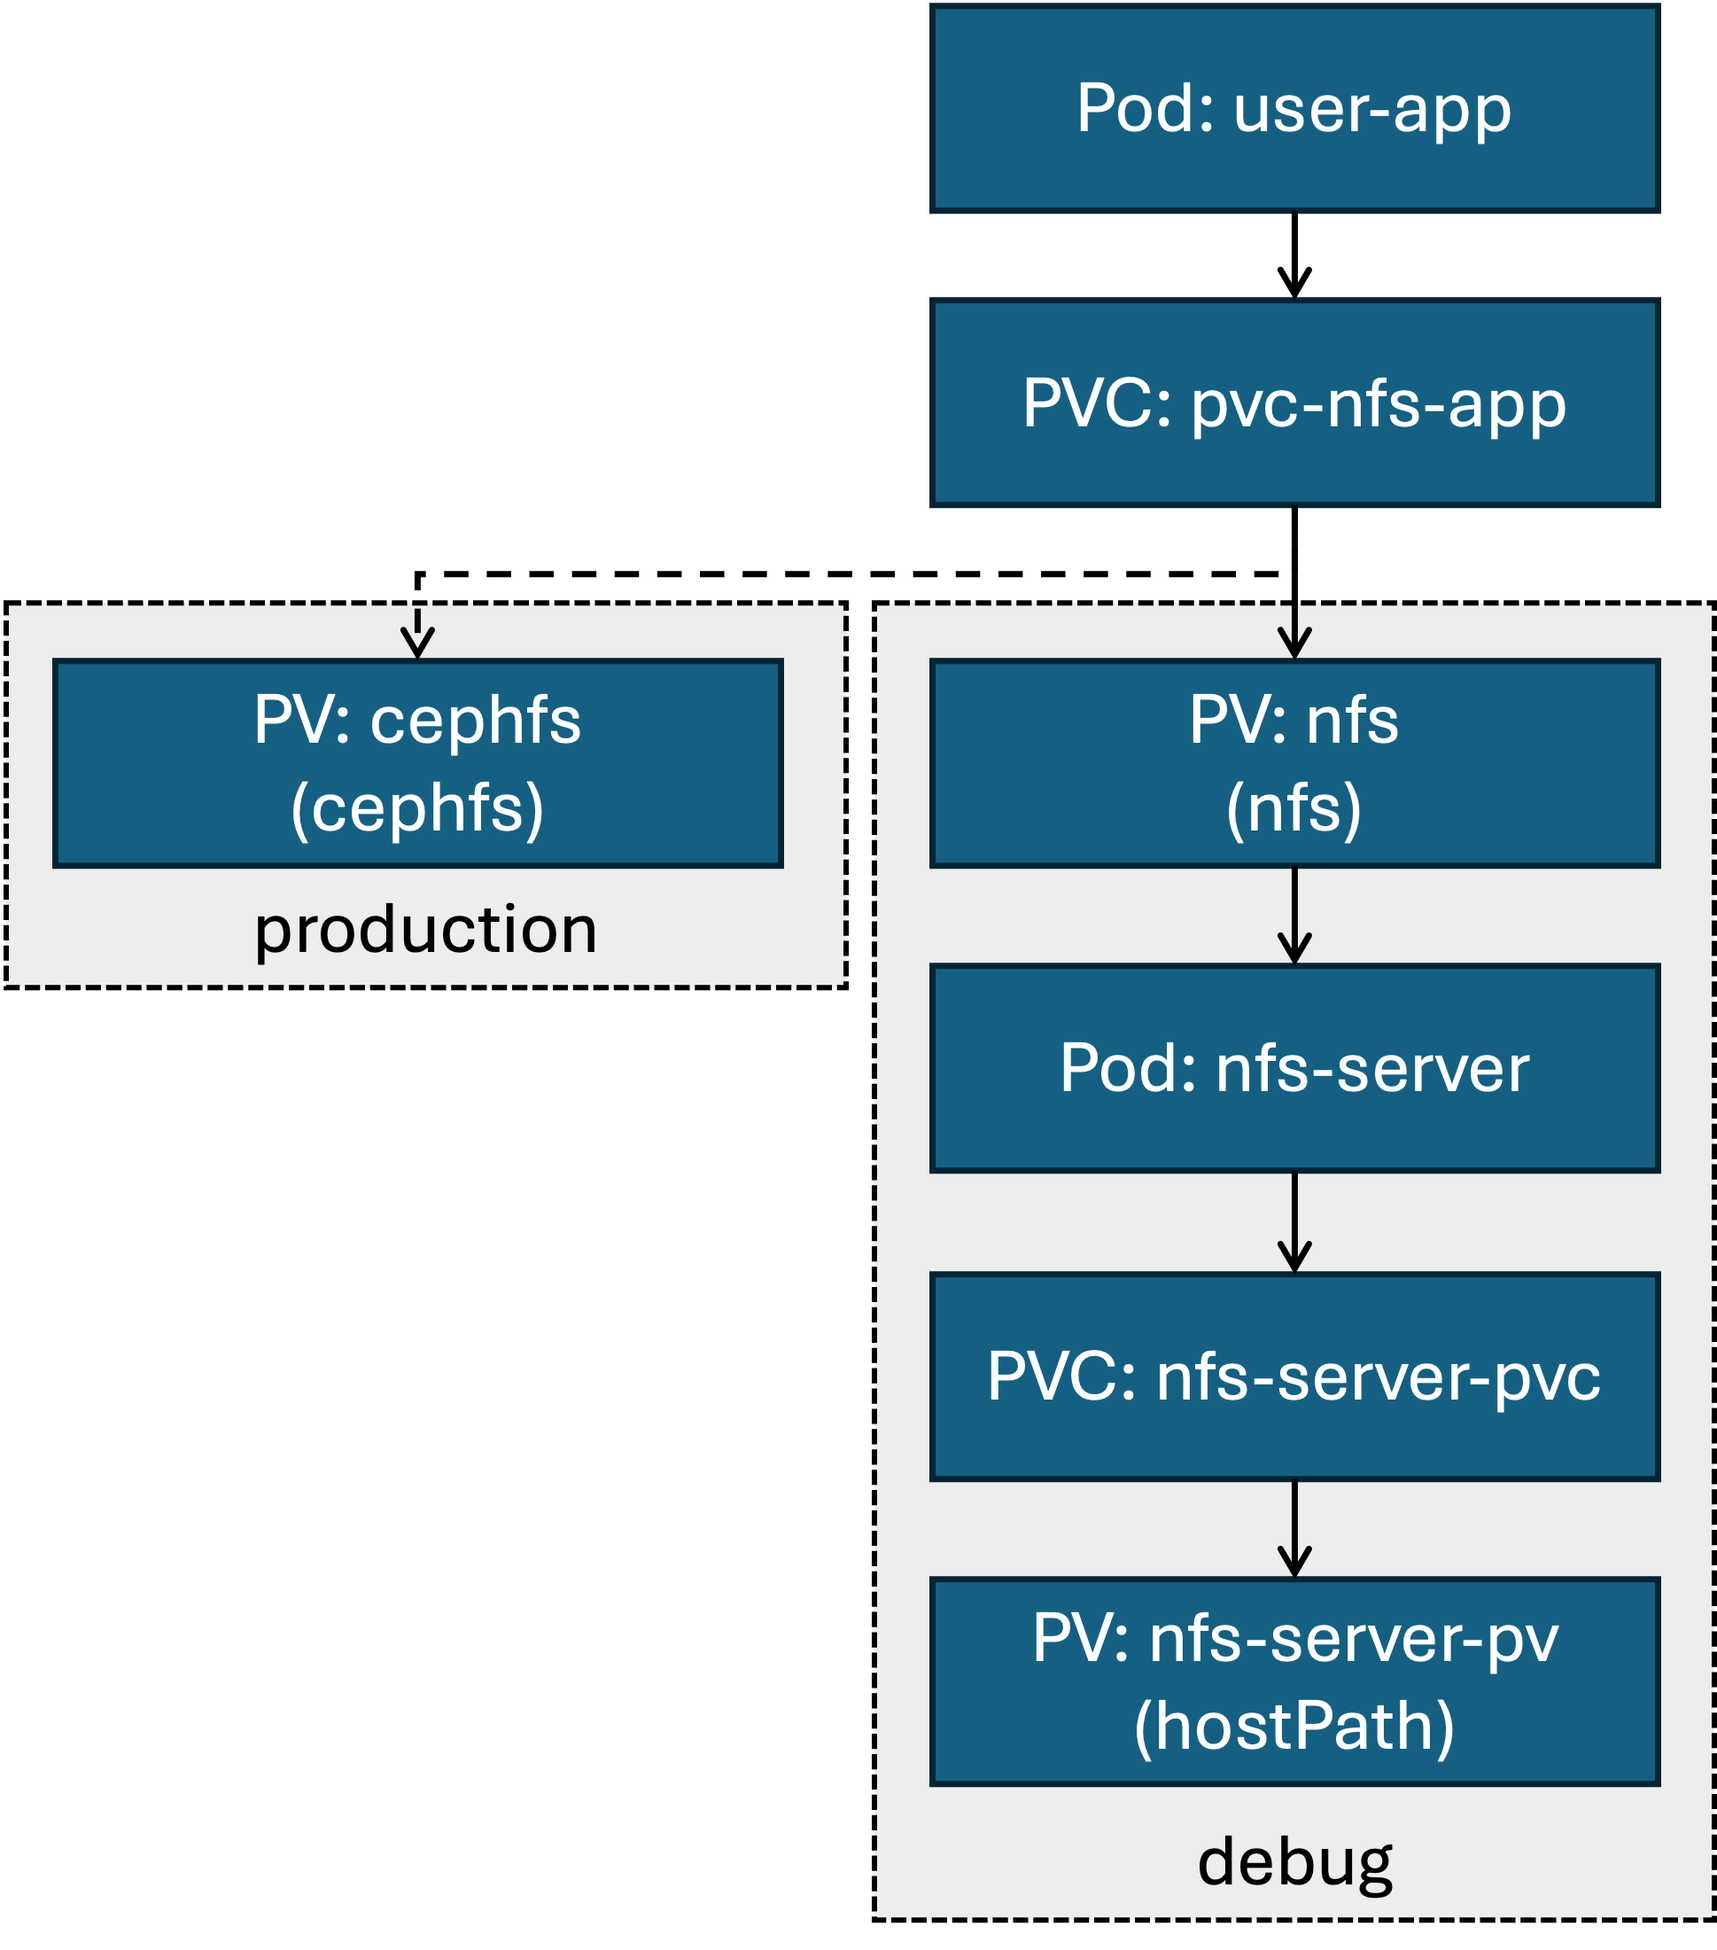
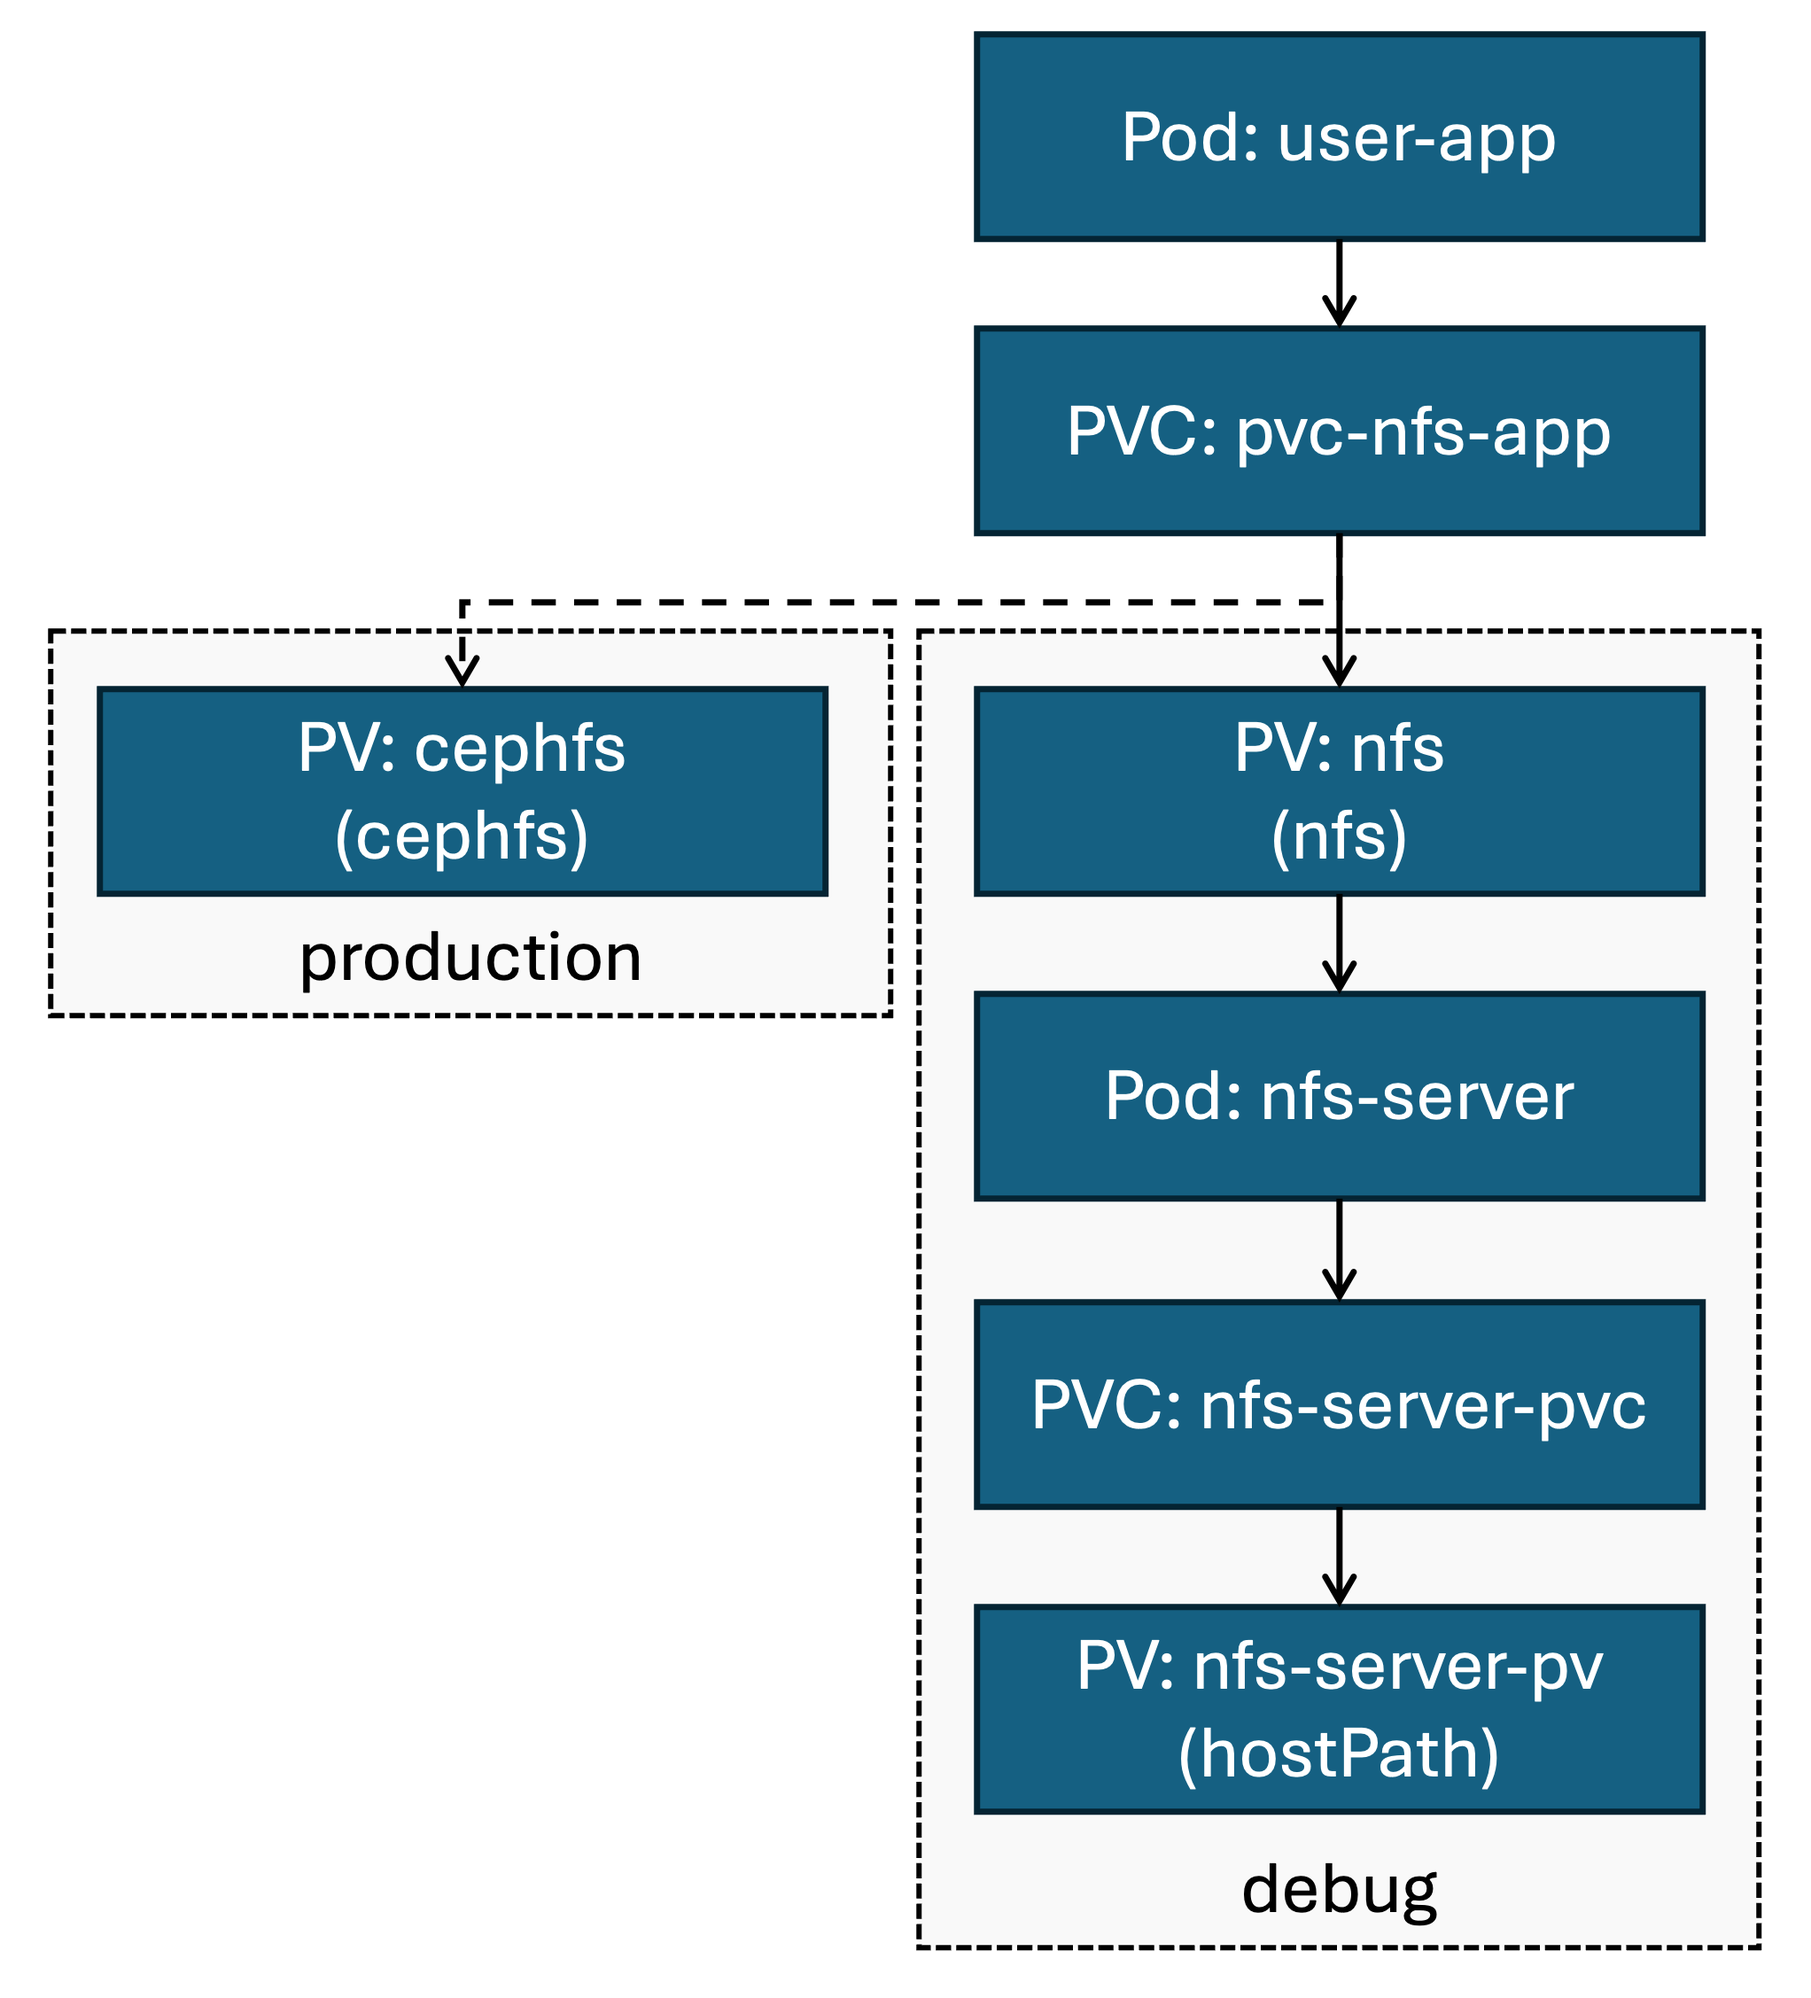
Updated README and image.

Changed region(s): [[0.0, 0.0, 1.0, 0.9891]]

diff --git a/README.md b/README.md
@@ -51,7 +51,7 @@ In the pod definition, pod can access storage using this `PersistentVolumeClaim`
 ### Description
 This system is only meant to use when no other storage solution (Ceph, AWS, Azure, etc.) is provided in the Kubernetes cluster. The graph below describes our solution (*debug*), compared to a typical production-ready solution (*production*).
 
-![Diagram of the solution](storage_solution.png)
+<img alt="Diagram of the solution" src="storage_solution.png" width=300>
 
 ### Summary of created resources
 |Resource type|Resource name|Description|
